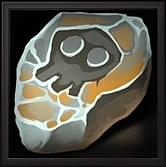
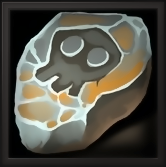
clean_icon: fix fill noise (amplitude-based mask, bilateral+guided on fills)

diff --git a/tools/clean_icon.py b/tools/clean_icon.py
@@ -53,15 +53,14 @@ def edge_band(L: np.ndarray, lo: float = 11.0, hi: float = 30.0) -> np.ndarray:
 # ---------------------------------------------------------------------- presets
 PRESETS = {
     # мягко: только явный мусор, рисунок почти не меняется
-    "gentle": dict(chroma=1.0, cmed=5, csig=1.4, passes=1, mthr=10, mrad=3,
-                   meps=30, unsharp=0.0),
-    # по умолчанию: цвет чистится сильно, яркость — 2 прохода по плоским зонам,
-    # контуры возвращаются лёгким unsharp только по маске краёв
-    "strong": dict(chroma=1.0, cmed=7, csig=2.5, passes=2, mthr=14, mrad=6,
-                   meps=120, unsharp=0.35),
-    # максимум: для сильно пережатых листов (следить за мелкими деталями)
-    "max":    dict(chroma=1.0, cmed=9, csig=3.5, passes=3, mthr=16, mrad=10,
-                   meps=300, unsharp=0.6),
+    "gentle": dict(chroma=1.0, cmed=5, csig=1.4, d=5, sc=14, ss=1.0,
+                   grad=2, geps=40, passes=1, lo=14, hi=26),
+    # по умолчанию: шум на заливках убирается уверенно, края и тонкие линии целы
+    "strong": dict(chroma=1.0, cmed=7, csig=2.5, d=7, sc=20, ss=1.0,
+                   grad=2, geps=60, passes=1, lo=10, hi=22),
+    # максимум: сильно пережатые листы (следить за мелкими деталями)
+    "max":    dict(chroma=1.0, cmed=9, csig=3.5, d=7, sc=30, ss=1.2,
+                   grad=3, geps=100, passes=2, lo=8, hi=18),
 }
 
 
@@ -107,6 +106,21 @@ def clean(img: np.ndarray, chroma: float = 1.0, luma: float = 0.8,
     return out
 
 
+def fill_mask(L: np.ndarray, lo: float = 10.0, hi: float = 22.0,
+              soft: float = 0.6) -> np.ndarray:
+    """1 = ровная заливка (шум давим), 0 = контур/мелкая деталь (не трогаем).
+
+    Важно: маска считается по АМПЛИТУДЕ мелкой структуры (|L - медиана 3×3|),
+    а не по градиенту. Градиент от самого шума и «съедал» заливку: шум делал
+    участок «контурным», и чистка его пропускала. Амплитуда шума ±3..8, у
+    настоящей линии/кромки — 20 и больше, поэтому порог их разделяет.
+    """
+    L8 = np.clip(L, 0, 255).astype(np.uint8)
+    hp = np.abs(L - cv2.medianBlur(L8, 3).astype(np.float32))
+    m = 1.0 - np.clip((hp - lo) / max(hi - lo, 1e-6), 0.0, 1.0)
+    return cv2.GaussianBlur(m, (0, 0), soft)
+
+
 def clean_preset(img: np.ndarray, preset: str = "strong") -> np.ndarray:
     """Чистка по пресету: хрома — медиана + сглаживание, яркость — guided
     по маске плоских зон в несколько проходов, затем лёгкий возврат резкости
@@ -116,38 +130,37 @@ def clean_preset(img: np.ndarray, preset: str = "strong") -> np.ndarray:
     lab = cv2.cvtColor(img, cv2.COLOR_BGR2LAB)
     L, A, B = [c.astype(np.float32) for c in cv2.split(lab)]
 
-    # --- 1. хрома
+    # --- 1. хрома: медиана + сглаживание (цветовые зоны не размазываются)
     A_med = cv2.medianBlur(np.clip(A, 0, 255).astype(np.uint8), p["cmed"]).astype(np.float32)
     B_med = cv2.medianBlur(np.clip(B, 0, 255).astype(np.uint8), p["cmed"]).astype(np.float32)
-    A_t = 0.45 * A_med + 0.55 * cv2.GaussianBlur(A, (0, 0), p["csig"])
-    B_t = 0.45 * B_med + 0.55 * cv2.GaussianBlur(B, (0, 0), p["csig"])
-    A = A + (A_t - A) * k
-    B = B + (B_t - B) * k
+    A = A + (0.45 * A_med + 0.55 * cv2.GaussianBlur(A, (0, 0), p["csig"]) - A) * k
+    B = B + (0.45 * B_med + 0.55 * cv2.GaussianBlur(B, (0, 0), p["csig"]) - B) * k
 
-    # --- 2. яркость: guided-фильтр только в плоских зонах, несколько проходов
+    # --- 2. яркость: раскраска только в заливках, края держим
+    #     bilateral убирает крапинки (малый пространственный радиус — тонкие
+    #     линии не разъезжаются), guided добивает остаток мягко.
     for _ in range(int(p["passes"])):
-        m = flat_mask(L, p["mthr"], 1)
-        L8 = np.clip(L, 0, 255).astype(np.uint8)
-        if hasattr(cv2, "ximgproc"):
-            L_g = cv2.ximgproc.guidedFilter(L8, L8, int(p["mrad"]),
-                                            float(p["meps"])).astype(np.float32)
-        else:
-            L_g = cv2.bilateralFilter(L, int(p["mrad"]), 22, 3.0)
-        L_m = cv2.medianBlur(L8, 3).astype(np.float32)
-        L_s = 0.35 * L_m + 0.65 * L_g
-        L = L + (L_s - L) * np.clip(m, 0.0, 1.0)
-
-    # --- 3. возврат резкости по контурам (узкая маска — без ореолов)
-    if p["unsharp"] > 0:
-        hp = L - cv2.GaussianBlur(L, (0, 0), 1.5)
-        em = np.clip((_edges(L) - 6.0) / 24.0, 0.0, 1.0)
-        L = L + hp * float(p["unsharp"]) * em
+        w = fill_mask(L, p["lo"], p["hi"])
+        Lb = cv2.bilateralFilter(L, int(p["d"]), float(p["sc"]), float(p["ss"]))
+        L = L + (Lb - L) * w
+        Lg = cv2.ximgproc.guidedFilter(L, L, int(p["grad"]), float(p["geps"])) \
+            if hasattr(cv2, "ximgproc") else cv2.bilateralFilter(L, 5, 12, 1.0)
+        L = L + (Lg - L) * w
 
     return cv2.cvtColor(np.clip(np.stack([L, A, B], -1), 0, 255).astype(np.uint8),
                         cv2.COLOR_LAB2BGR)
 
 
 # -------------------------------------------------------------------- metrics
+def fill_noise(img: np.ndarray) -> float:
+    """Робастная оценка шума ИМЕННО на заливках: сигма мелкой структуры
+    (|L − медиана 3×3|) по пикселям, где эта структура слабая."""
+    L = cv2.cvtColor(img, cv2.COLOR_BGR2LAB)[..., 0].astype(np.float32)
+    hp = np.abs(L - cv2.medianBlur(np.clip(L, 0, 255).astype(np.uint8), 3).astype(np.float32))
+    sel = hp < 12.0
+    return round(float(hp[sel].mean()), 2)
+
+
 def _ring(L: np.ndarray, edge: np.ndarray) -> float:
     near = cv2.dilate(edge.astype(np.uint8), np.ones((7, 7), np.uint8)).astype(bool) & ~edge
     return float(np.abs(L - cv2.GaussianBlur(L, (0, 0), 1.0))[near].mean())
@@ -169,6 +182,7 @@ def metrics(img: np.ndarray) -> dict:
         "цветной шум (a/b)": round(float((md(A)[flat].mean() + md(B)[flat].mean()) / 2), 2),
         "шум яркости": round(float(md(L)[flat].mean()), 2),
         "резкость контуров": round(float(lap[edge].mean()), 1),
+        "шум на заливках": fill_noise(img),
         "звон у контуров": round(_ring(L, edge), 2),
         "средняя яркость": round(float(L.mean()), 1),
     }

diff --git a/tools/README.md b/tools/README.md
@@ -97,24 +97,34 @@ python3 tools/clean_icon.py samples/icon_sharp_bezel.png -o samples/icon_clean.p
 python3 tools/clean_icon.py in.png -o out.png --chroma 1.0 --luma 0.8
 ```
 
-Что за шум (замерено на листах): **цветной шум по хроме** (крапинки
-зелёно-сиреневого на ровном сером — следствие JPEG 4:2:0 и грубого квантования
-хромы), **дрожание яркости ~1 ед. и блочность 8×8**, **звон у светлых контуров**.
+Что за шум (замерено на листах): **артефакты на заливках** — там, где по
+рисунку должен быть ровный цвет, идёт мелкая «сыпь» ±3..8 ед. яркости плюс
+блочность 8×8 (грубое квантование в JPEG); **цветной шум по хроме** (зелёно-
+сиреневые крапинки — JPEG 4:2:0); **звон у светлых контуров**.
+
+Важная ловушка (из-за неё первая версия чистки не трогала заливки): маску
+«плоских зон» нельзя считать по градиенту — сам шум даёт градиент, участок
+попадает в «контур» и чистка его пропускает (покрытие маской было 16 %).
+`fill_mask()` считает маску по **амплитуде мелкой структуры** (|L − медиана 3×3|):
+у шума она 3..8, у настоящей линии/кромки 20+, порог это разделяет.
 
 `clean_icon.py` давит хрому медианой + сглаживанием (цветовые зоны не
-размазываются), а яркость чистит guided-фильтром только внутри маски плоских
-участков, в несколько проходов; затем лёгкий unsharp строго по маске контуров
-возвращает резкость без ореолов.
+размазываются), а яркость чистит **bilateral** (малый пространственный радиус —
+тонкие линии не разъезжаются) + **guided** только внутри `fill_mask`.
 
 Режимы (`--preset`): `gentle` (только явный мусор), `strong` (по умолчанию),
 `max` (сильно пережатые листы). Замер на образце (strong):
 
 | метрика | до | после |
 |---|---|---|
-| цветной шум a/b | 0.31 | **0.17** |
-| шум яркости | 0.29 | 0.23 |
-| звон у контуров | 3.12 | **2.72** |
-| резкость контуров | 61.2 | 71.7 |
+| шум на заливках (σ мелкой структуры) | 1.29 | **0.41** |
+| шум в патче между глазами (std) | 4.68 | **1.25** |
+| цветной шум a/b | 0.31 | **0.18** |
+| шум яркости | 0.29 | 0.16 |
+| резкость контуров | 61.2 | 76.9 (не мылит) |
+
+Сравнения лежат в `samples/icon_clean_compare.jpg` (вся иконка) и
+`samples/icon_clean_zoom.jpg` (заливка между глазами, ×16).
 
 ## Нарезка иконок с обводкой
 
